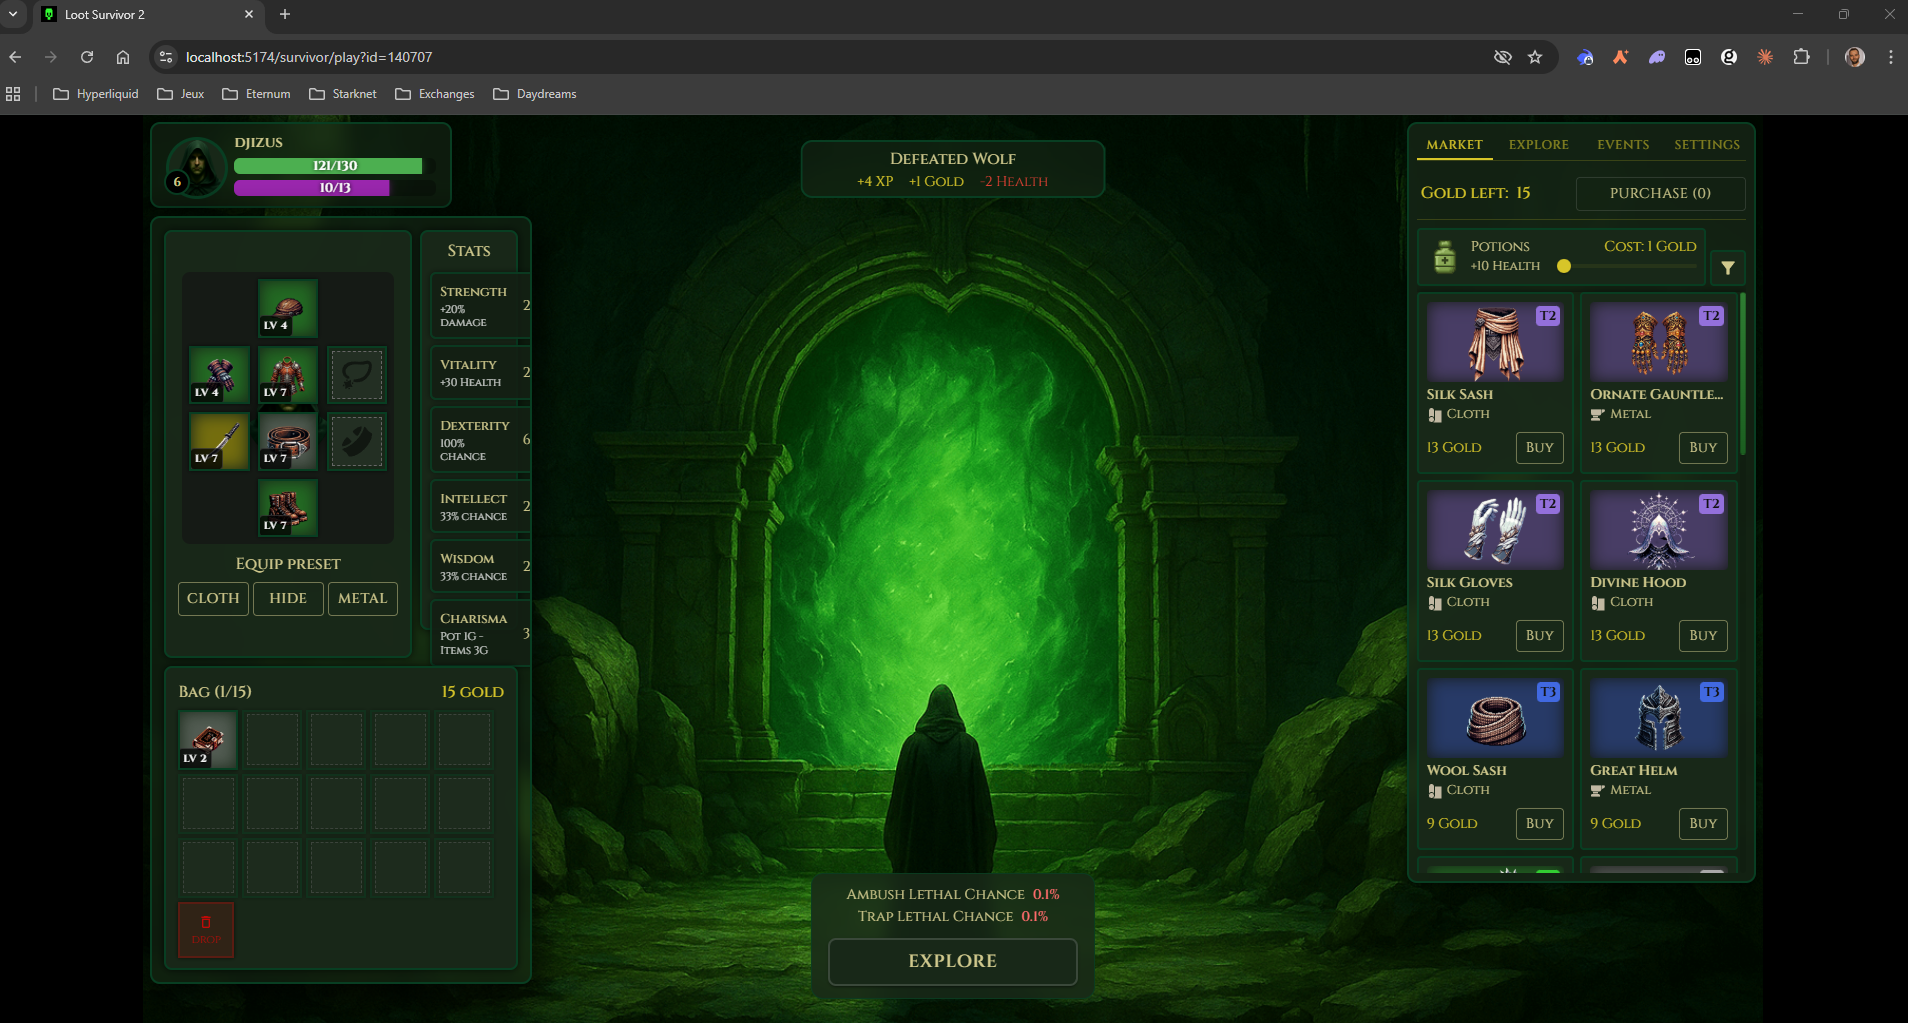
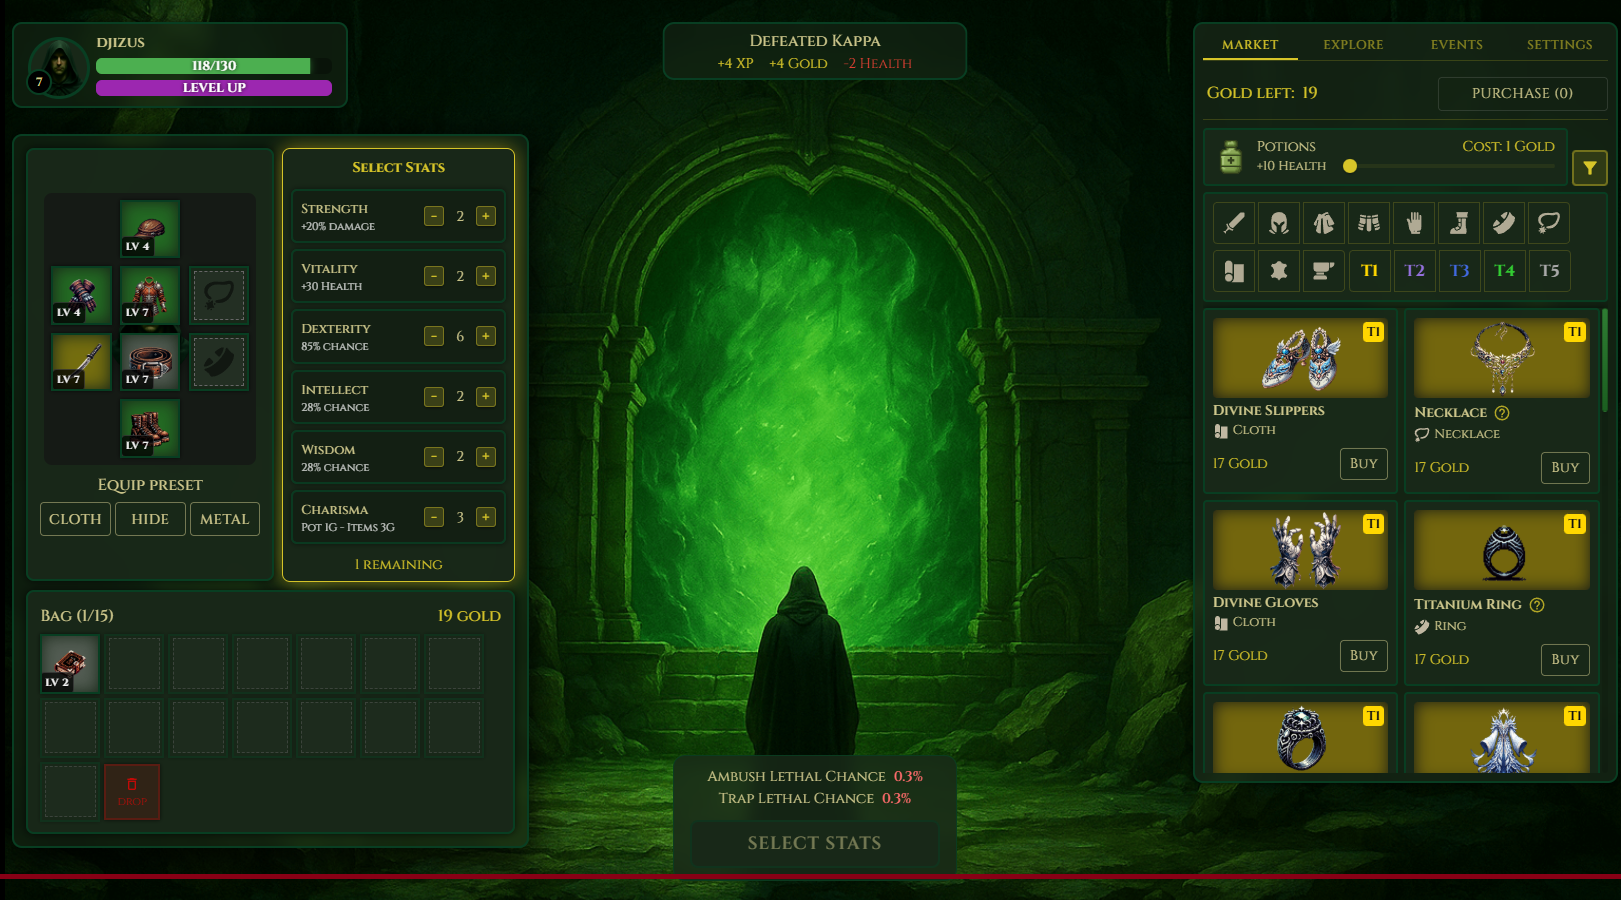
better layout 2

diff --git a/client/src/desktop/overlays/Beast.tsx b/client/src/desktop/overlays/Beast.tsx
@@ -43,7 +43,7 @@ export default function Beast() {
   }, [beast]);
 
   // Responsive sizes
-  const edgeOffset = scalePx(8);
+  const edgeOffset = scalePx(30);
   const panelWidth = scalePx(360);
 
   return (
@@ -137,7 +137,7 @@ export default function Beast() {
       {collectable && (
         <Box sx={{
           ...styles.collectableIndicator,
-          top: scalePx(100),
+          top: scalePx(122),
           right: edgeOffset,
           width: panelWidth,
         }}>
@@ -151,7 +151,7 @@ export default function Beast() {
       {ownerName && (
         <Box sx={{
           ...styles.collectableIndicator,
-          top: scalePx(100),
+          top: scalePx(122),
           right: edgeOffset,
           width: panelWidth,
         }}>
@@ -165,7 +165,7 @@ export default function Beast() {
       {collectable && isJackpot && (
         <Box sx={{
           ...styles.toastContainer,
-          top: scalePx(95),
+          top: scalePx(117),
         }}>
           <Typography sx={styles.wantedBeastText}>
             WANTED BEAST

diff --git a/client/src/desktop/overlays/Market.tsx b/client/src/desktop/overlays/Market.tsx
@@ -716,9 +716,9 @@ export default function MarketOverlay() {
   return (
     <Box sx={{
       ...styles.popup,
-      top: scalePx(8),
+      top: scalePx(30),
       right: scalePx(8),
-      width: scalePx(390),
+      width: scalePx(480),
       minHeight: scalePx(600),
     }}>
       <Box sx={styles.tabBar}>
@@ -1342,7 +1342,7 @@ const styles = {
   popup: {
     position: 'absolute',
     // top, right, width set dynamically via useResponsiveScale
-    maxHeight: 'calc(100dvh - 170px)',
+    maxHeight: 'calc(100dvh - 100px)',
     maxWidth: '98dvw',
     background: 'rgba(24, 40, 24, 0.75)',
     border: '2px solid #083e22',
@@ -1995,7 +1995,7 @@ const styles = {
   filterGroup: {
     display: 'flex',
     flexDirection: 'row',
-    gap: '8px',
+    gap: '4px',
   },
   filterButtons: {
     display: 'flex',

diff --git a/client/src/desktop/overlays/Combat.tsx b/client/src/desktop/overlays/Combat.tsx
@@ -558,7 +558,7 @@ export default function CombatOverlay() {
       {beast && combatOverview && (
         <Box sx={{
           ...styles.insightsPanel,
-          top: scalePx(150),
+          top: scalePx(172),
           right: scalePx(8),
           width: scalePx(360),
           padding: `${scalePx(12)}px ${scalePx(14)}px`,
@@ -691,7 +691,7 @@ export default function CombatOverlay() {
       {/* Skip Animations Toggle */}
       {showSkipCombat && (untilDeath || autoLastHitActive) && <Box sx={{
         ...styles.skipContainer,
-        top: scalePx(90),
+        top: scalePx(112),
       }}>
         <Button
           variant="outlined"

diff --git a/client/src/desktop/overlays/Inventory.tsx b/client/src/desktop/overlays/Inventory.tsx
@@ -658,9 +658,9 @@ export default function InventoryOverlay({ disabledEquip }: InventoryOverlayProp
   }
 
   // Responsive sizes - positioned below adventurer panel
-  const popupTop = scalePx(140);
+  const popupTop = scalePx(162);
   const popupLeft = scalePx(8);
-  const popupWidth = scalePx(540);
+  const popupWidth = scalePx(580);
 
   return (
     <>
@@ -789,7 +789,7 @@ const styles = {
     mb: 1
   },
   equipmentPanel: {
-    height: '400px',
+    height: '405px',
     width: '220px',
     display: 'flex',
     flexDirection: 'column',

diff --git a/client/src/desktop/overlays/Adventurer.tsx b/client/src/desktop/overlays/Adventurer.tsx
@@ -45,14 +45,14 @@ export default function Adventurer({ combatStats }: { combatStats?: CombatStats 
   const xpProgress = xpRequiredForNext > 0 ? (currentXpIntoLevel / xpRequiredForNext) * 100 : 100;
 
   // Responsive sizes
-  const edgeOffset = scalePx(8);
+  const edgeOffset = scalePx(30);
   const panelWidth = scalePx(360);
 
   return (
     <Box sx={{
       ...styles.panel,
       top: edgeOffset,
-      left: edgeOffset,
+      left: scalePx(8),
       width: panelWidth,
     }}>
       {/* Portrait with level badge */}

diff --git a/client/src/desktop/overlays/Explore.tsx b/client/src/desktop/overlays/Explore.tsx
@@ -315,7 +315,7 @@ export default function ExploreOverlay() {
       {claimInProgress && (
         <Box sx={{
           ...styles.toastContainer,
-          top: scalePx(98),
+          top: scalePx(120),
         }}>
           <Typography sx={styles.toastText}>Collecting Beast</Typography>
           <div className='dotLoader yellow' />

diff --git a/client/src/desktop/components/AdventurerStats.tsx b/client/src/desktop/components/AdventurerStats.tsx
@@ -226,7 +226,7 @@ const styles = {
   },
   statsPanelStatsVariant: {
     width: '100%',
-    height: '400px',
+    height: '434px',
     flex: 1,
     minWidth: 0,
   },
